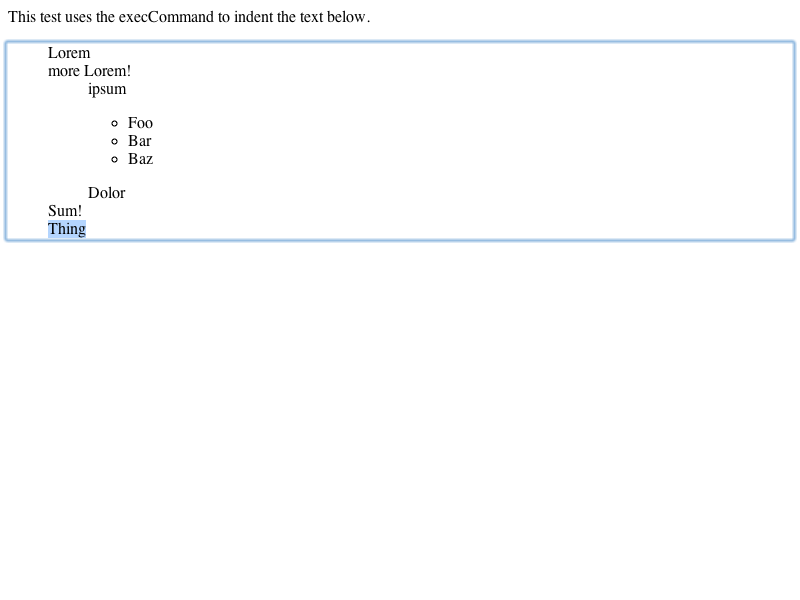
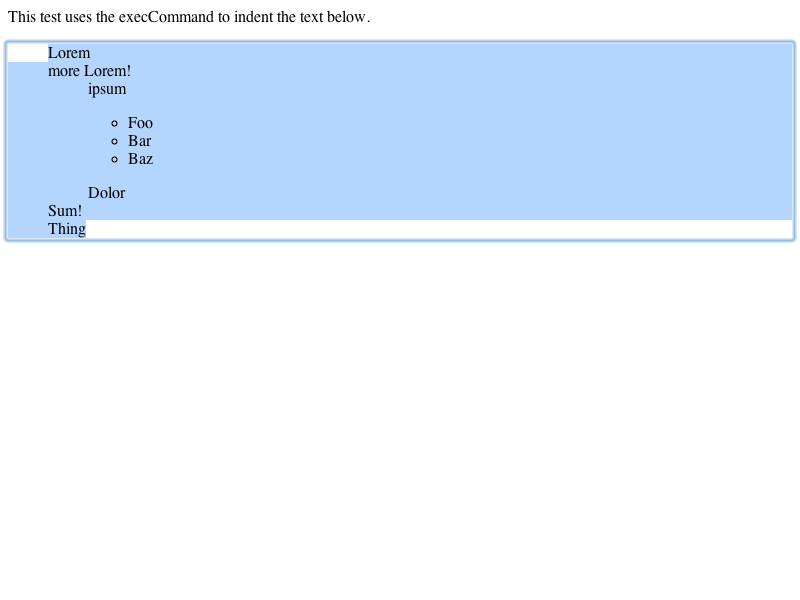
LayoutTests:
Reviewed by john

        <rdar://problem/4916541>
        Some of the selection isn't preserved during an Indent opreration
        
        Added:
        * editing/execCommand/4916541-expected.checksum: Added.
        * editing/execCommand/4916541-expected.png: Added.
        * editing/execCommand/4916541-expected.txt: Added.
        * editing/execCommand/4916541.html: Added.
        Fixed:
        * editing/execCommand/4641880-2-expected.checksum:
        * editing/execCommand/4641880-2-expected.png:
        * editing/execCommand/4641880-2-expected.txt:
        * editing/execCommand/indent-selection-expected.checksum:
        * editing/execCommand/indent-selection-expected.png:
        * editing/execCommand/indent-selection-expected.txt:
        Added a FIXME:
        * editing/execCommand/indent-list-item-expected.checksum:
        * editing/execCommand/indent-list-item-expected.png:
        * editing/execCommand/indent-list-item-expected.txt:
        * editing/execCommand/indent-list-item.html:

WebCore:

        Reviewed by john

        <rdar://problem/4916541>
        Some of the selection isn't preserved during an Indent opreration

        * editing/IndentOutdentCommand.cpp:
        (WebCore::indexForVisiblePosition): Added.
        (WebCore::IndentOutdentCommand::indentRegion): Use rangeLength
        and rangeFromLocationAndLength to restore the selection after
        the repeated moveParagraph calls necessary to perform indent are
        finished.
[…]

Changed region(s): [[0.0, 0.06, 1.0, 0.42]]

diff --git a/LayoutTests/editing/execCommand/4916541.html b/LayoutTests/editing/execCommand/4916541.html
@@ -1,0 +1,10 @@
+<p>This tests selection preservation during an indent operation.  The selection should start and end in the same parts of the words 'foo' and 'bar' before and after the indent operation.</p>
+<div id="div" contenteditable="true"><span id="foo">foo</span><br><span id="bar">bar</span></div>
+
+<script>
+var foo = document.getElementById("foo").firstChild;
+var bar = document.getElementById("bar").firstChild;
+var sel = window.getSelection();
+sel.setBaseAndExtent(foo, 1, bar, 2);
+document.execCommand("Indent");
+</script>

diff --git a/LayoutTests/editing/execCommand/indent-list-item.html b/LayoutTests/editing/execCommand/indent-list-item.html
@@ -2,9 +2,7 @@
 if (window.layoutTestController)
      layoutTestController.dumpEditingCallbacks();
 </script>
-<div id="description">
-This test uses the execCommand to Outdent the text below.
-</div>
+<div id="description">This test uses the execCommand to Outdent the text below. <b>It demonstrates a bug: the caret is one position off after the indent operatio.</b></div>
 <br>
 <div contenteditable="true">
 <ul>

diff --git a/WebCore/editing/IndentOutdentCommand.cpp b/WebCore/editing/IndentOutdentCommand.cpp
@@ -34,6 +34,7 @@
 #include "InsertLineBreakCommand.h"
 #include "Range.h"
 #include "SplitElementCommand.h"
+#include "TextIterator.h"
 #include "visible_units.h"
 
 namespace WebCore {
@@ -118,10 +119,21 @@ Node* IndentOutdentCommand::splitTreeToNode(Node* start, Node* end, bool splitAn
     return node;
 }
 
+static int indexForVisiblePosition(VisiblePosition& visiblePosition)
+{
+    if (visiblePosition.isNull())
+        return 0;
+    Position p(visiblePosition.deepEquivalent());
+    RefPtr<Range> range = new Range(p.node()->document(), Position(p.node()->document(), 0), p);
+    return TextIterator::rangeLength(range.get());
+}
+
 void IndentOutdentCommand::indentRegion()
 {
     VisiblePosition startOfSelection = endingSelection().visibleStart();
     VisiblePosition endOfSelection = endingSelection().visibleEnd();
+    int startIndex = indexForVisiblePosition(startOfSelection);
+    int endIndex = indexForVisiblePosition(endOfSelection);
 
     ASSERT(!startOfSelection.isNull());
     ASSERT(!endOfSelection.isNull());
@@ -182,6 +194,10 @@ void IndentOutdentCommand::indentRegion()
         moveParagraph(startOfParagraph(endOfCurrentParagraph), endOfCurrentParagraph, VisiblePosition(Position(insertionPoint, 0)), true);
         endOfCurrentParagraph = endOfNextParagraph;
     }
+    
+    RefPtr<Range> startRange = TextIterator::rangeFromLocationAndLength(document()->documentElement(), 0, startIndex);
+    RefPtr<Range> endRange = TextIterator::rangeFromLocationAndLength(document()->documentElement(), 0, endIndex);
+    setEndingSelection(Selection(startRange->endPosition(), endRange->endPosition(), DOWNSTREAM));
 }
 
 void IndentOutdentCommand::outdentParagraph()
